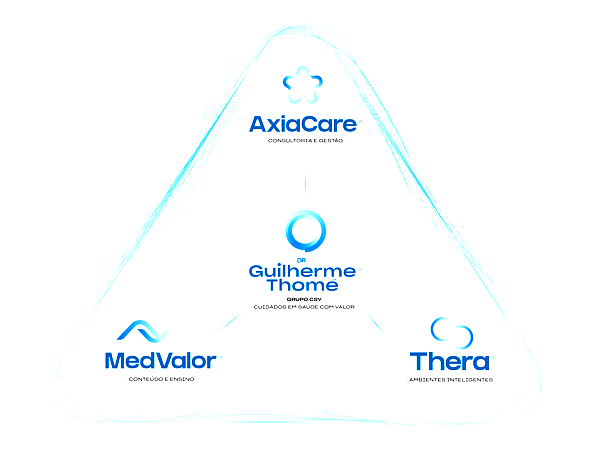
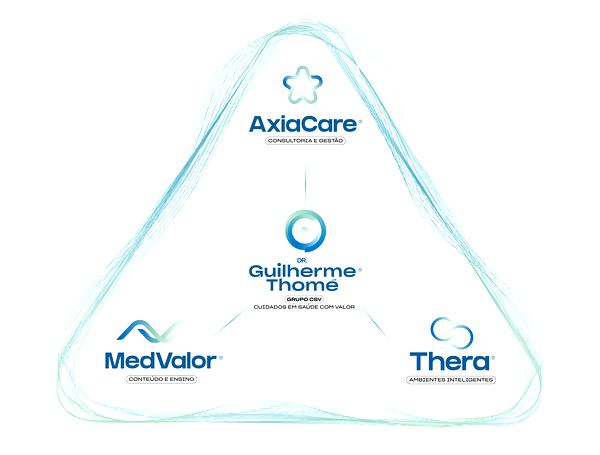
fix: corrige cores do triângulo e melhora tipografia dos textos
TRIÂNGULO:
- Remove filtros brightness/contrast que estragavam cores
- Preserva cores originais azuis/verde-água
- Apenas remove fundo branco (transparente)

TEXTOS:
- Aproxima textos do triângulo (top: -8px, bottom: 8px)
- Aumenta tamanho (15px desktop, 13px mobile)
- Aumenta peso da fonte (500)
- Aumenta opacity (0.85)
- Adiciona text-shadow para destaque
- Muito mais visíveis e elegantes

diff --git a/index.html b/index.html
@@ -146,8 +146,7 @@
         .triangle-image {
             width: 100%;
             height: auto;
-            opacity: 0.7;
-            filter: brightness(1.1) contrast(1.1);
+            opacity: 0.9;
             transition: opacity 0.3s ease;
         }
 
@@ -206,26 +205,27 @@
         /* Labels externos do triângulo */
         .triangle-label {
             position: absolute;
-            font-size: 14px;
-            font-weight: 400;
-            color: rgba(255, 255, 255, 0.7);
-            letter-spacing: 0.3px;
+            font-size: 15px;
+            font-weight: 500;
+            color: rgba(255, 255, 255, 0.85);
+            letter-spacing: 0.5px;
+            text-shadow: 0 2px 8px rgba(0, 0, 0, 0.3);
         }
 
         .triangle-label-top {
-            top: -30px;
+            top: -8px;
             left: 50%;
             transform: translateX(-50%);
         }
 
         .triangle-label-left {
-            bottom: -30px;
-            left: 0;
+            bottom: 8px;
+            left: 8px;
         }
 
         .triangle-label-right {
-            bottom: -30px;
-            right: 0;
+            bottom: 8px;
+            right: 8px;
         }
 
         .footer {
@@ -345,16 +345,21 @@
             }
 
             .triangle-label {
-                font-size: 12px;
+                font-size: 13px;
             }
 
             .triangle-label-top {
-                top: -25px;
+                top: -6px;
             }
 
-            .triangle-label-left,
+            .triangle-label-left {
+                bottom: 6px;
+                left: 6px;
+            }
+
             .triangle-label-right {
-                bottom: -25px;
+                bottom: 6px;
+                right: 6px;
             }
 
             .footer-grid {
